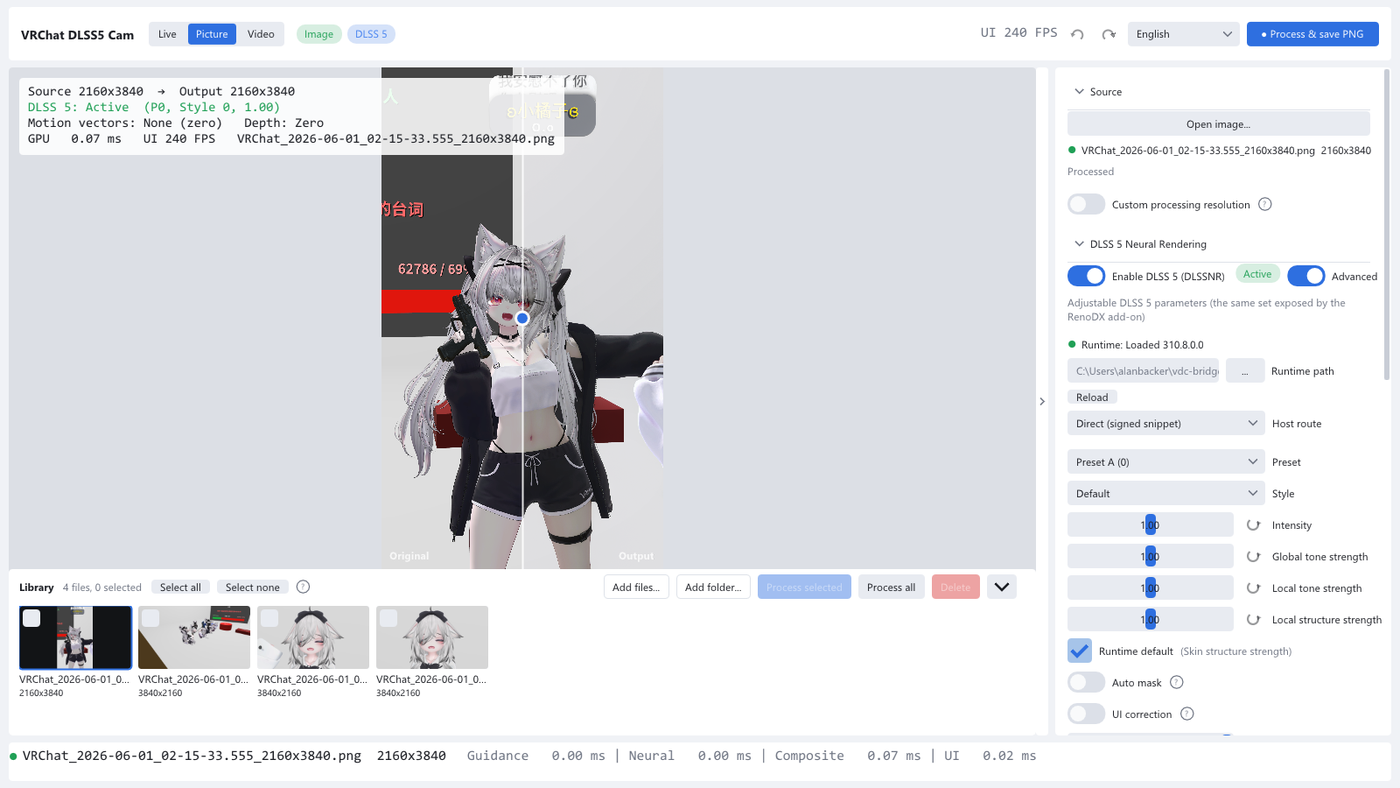
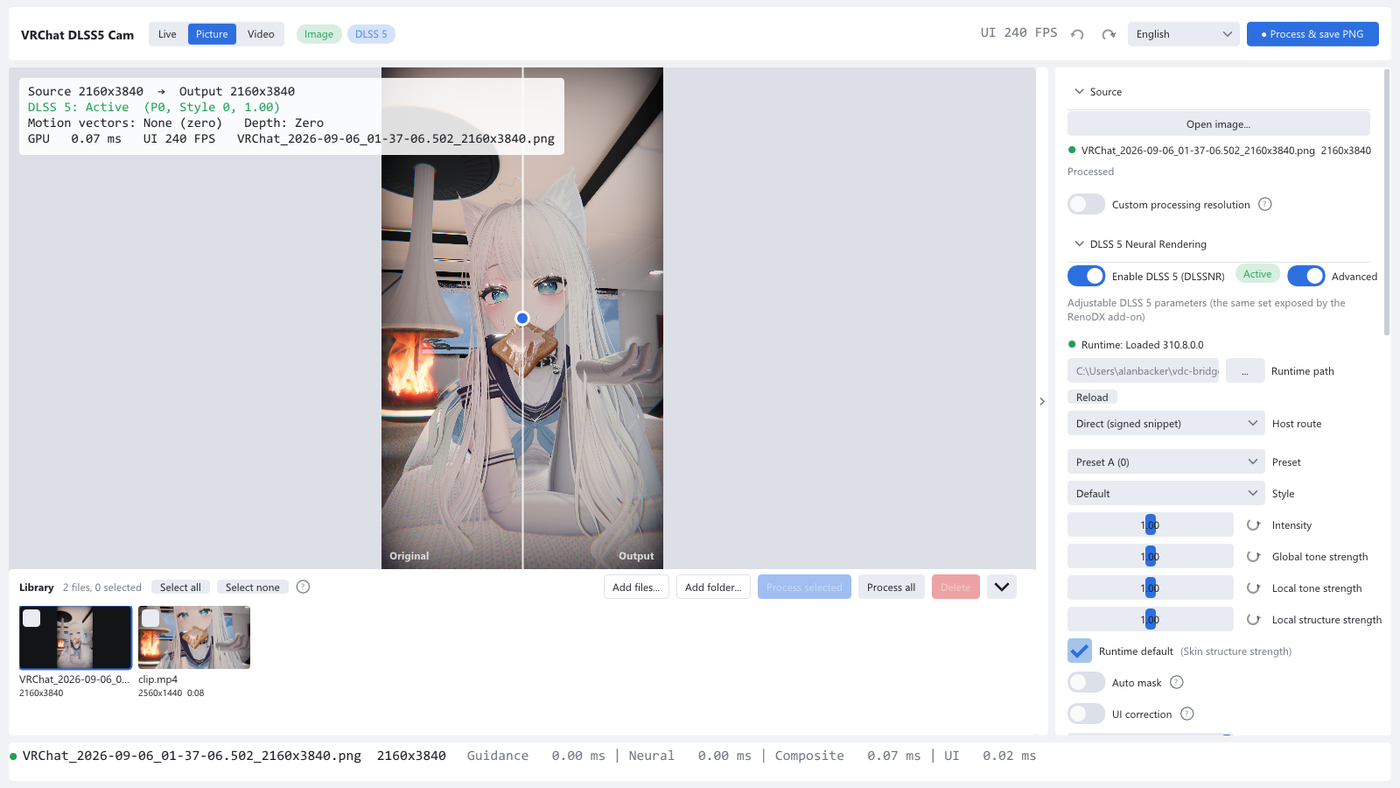
README: same screenshots in every language, pictures without player names
- The Chinese README uses the same hero picture as the other three.
- The light-theme and video screenshots were retaken on a photo without
  name tags; the video shot uses a short clip made from that photo.

Claude-Session: https://claude.ai/code/session_01RSzzSbmNoaGbgsd39QtZv2

diff --git a/docs/README.zh-CN.md b/docs/README.zh-CN.md
@@ -11,7 +11,7 @@ VRChat DLSS5 Cam 会捕获 VRChat 相机的画面，在你的 GeForce RTX 显卡
 它是一个普通的 Windows 程序：不向 VRChat 注入任何东西，也不需要 Mod。
 
 <p align="center">
-  <img src="images/main-zh.png" width="900" alt="主窗口：一张 VRChat 照片的分割对比（左边原始画面，右边 DLSS 5 结果），下方是素材库，右侧是设置">
+  <img src="images/main.png" width="900" alt="主窗口：一张 VRChat 照片的分割对比（左边原始画面，右边 DLSS 5 结果），下方是素材库，右侧是设置">
 </p>
 
 [![Build](https://github.com/AlanBacker/VRChat-DLSS5-Cam/actions/workflows/build.yml/badge.svg)](https://github.com/AlanBacker/VRChat-DLSS5-Cam/actions/workflows/build.yml)
